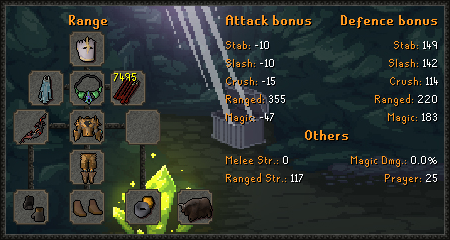
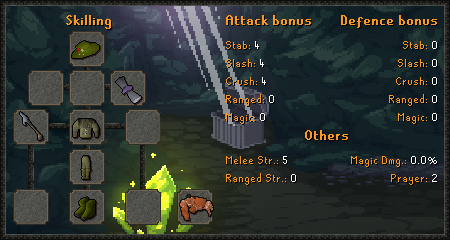
GitBook: [#229] BiS Outfits for Skilling Pages

diff --git a/skills/hunter.md b/skills/hunter.md
@@ -3,13 +3,17 @@
 ### Custom Content and Boosts
 
 * Elder Birdhouses - can be set at level 99 Hunter, giving random seeds and a chance at [Grandmaster Clues](https://bso-wiki.oldschool.gg/custom-items/grandmaster-clues).
+* [Scroll of the Hunt](dungeoneering-training/dg-rewards.md#buyable-boosts-utility) - +4 Birdhouses
 * Sand Geckos - can be hunted at 120 hunter, requiring simple kibble to catch them. They reward various mystery boxes, and can be boosted using [Sandy](https://bso-wiki.oldschool.gg/custom-items/pets) and the Master Hunter Cape (500m XP)
-* Eastern Ferret - can be hunted at 96 hunter, requiring delicious kibble to catch them. Chance at [Zippy](../custom-items/pets.md#miscellaneous-pets) pet
+* Eastern Ferret - can be hunted at 96 hunter, requiring delicious kibble to catch. Chance at [Zippy](../custom-items/pets.md#miscellaneous-pets) pet
 * [Sandy](../custom-items/pets.md#miscellaneous-pets) - 3x hunter loot (2x sand gecko loot w/ Hunter Master Cape)
+* Hunter Master Cape - 2x Hunter speed, +4 birdhouses, 2x loot from Sand Geckos with Sandy equipped, 2x implings
 
 ### Optimal Gear Setup
 
-Lorem Ipsum
+Hunter master cape, Sandy
+
+Wildy setup - Full royal dhide (cost effective)
 
 ### Methods
 

diff --git a/skills/farming.md b/skills/farming.md
@@ -14,18 +14,12 @@
 * [Master Farming Outfit](../custom-items/equippables.md#master-farmer-outfit) - Gives +3 patches of all types. Obtained via crafting with 110 Crafting using Ent hides dropped from [Treebeard](../bosses/demi-bosses/treebeard.md). Works from bank
 * [Scroll of Life](dungeoneering-training/dg-rewards.md#buyable-boosts-utility) - 15% less seeds used when farming
 * [Farming Master Cape](../custom-items/equippables.md#master-capes) - Save 15% seeds. (50% if you have the cape and scroll of life); 1/10 chance per seed of a mystery box.
-* Farming Skill Cape - +5% Crop yield.
-* Magic Secateurs - +10% crop yield.
-* Full Graceful - 10% speed boost
-* Ardougne Elite Diary - 4% speed boost
-* Ring of Endurance - 10% speed boost must be equipped
-* Farmers Outfit - 2.5% bonus exp. Does not need to be equipped.
 * 3000 QP - Unlocks additional Athelas and Mysterious Tree patches
 * [Plopper](../custom-items/pets.md#miscellaneous-pets) - 4x harvest and crops can't die
 
 ### Optimal Gear Setup
 
-Lorem Ipsum
+![](<../.gitbook/assets/image (15).png>)
 
 ### Methods
 

diff --git a/custom-items/equippables.md b/custom-items/equippables.md
@@ -60,14 +60,11 @@ These dwarven gear are unlike the previous in that they are not smithable from D
 
 ### Abyssal Equipment
 
-Abyssal equipment can be obtained by killing [Malygos](../bosses/demi-bosses/malygos.md).&#x20;
-
-* Abyssal Cape - Provides an aura which reduces food consumption by 50%
-* Abyssal Thread - Combine with Giant Pouch to create Abyssal Pouch
+Abyssal Cape - Provides an aura which reduces food consumption by 50%. Obtained from [Malygos](../bosses/demi-bosses/malygos.md)
 
 ### Nex Equipment
 
-The following items can be obtained by killing Nex (see [Nex](../bosses/nex.md)). These items all have very high bonuses in their respective style, Pernix - range, Torva - melee, and Virtus - magic.&#x20;
+The following items are obtained from [Nex](../bosses/nex.md). These items all have very high bonuses in their respective style, Pernix - range, Torva - melee, and Virtus - magic.&#x20;
 
 * **Pernix**: Cowl, Body, Chaps, Gloves, Boots, Zaryte Bow
 * **Torva**: Full Helm, Platebody, Platelegs, Gloves, Boots

diff --git a/skills/prayer.md b/skills/prayer.md
@@ -5,11 +5,12 @@
 * [Lil' Lamb](../custom-items/pets.md#miscellaneous-pets) - 1x-3x boost from offering bones
 * Abyssal Dragon Bones - Bis bones obtained from Malygos
 * Royal Dragon Bones - Bis bones obtained from QBD
-* Gorajan Bonecrusher - Passively crushes bones obtained from /k trips. Create by combining the [Gorajan Bonecrusher (u)](dungeoneering-training/#starting-out) with 2 gorajan shards
+* Gorajan Bonecrusher - Passively crushes bones obtained from /k trips. Create by combining the [Gorajan Bonecrusher (u)](dungeoneering-training/#starting-out) with 3 gorajan shards
+* Prayer Master Cape - 40% Less Prayer Potions consumed while using Dwarven Blessing
 
 ### Optimal Gear Setup
 
-Lorem Ipsum
+Lil Lamb, Prayer master cape
 
 ### Methods
 

diff --git a/skills/runecraft.md b/skills/runecraft.md
@@ -11,12 +11,14 @@ description: Runecraft meta
 * Elder pouch - Upgrade the Abyssal pouch to hold much more essence. Requires [elder thread](../minigames/ourania-delivery-service-ods.md#ods-shop) and level 105 RC to use. `=create elder pouch` Ensure you create a new Abyssal pouch after creating this.
 * [Obis](../custom-items/pets.md#miscellaneous-pets) - 2x boost but costs 3x essence
 * [Master runecrafter outfit](../minigames/ourania-delivery-service-ods.md#ods-shop) - 10% bonus to RC XP
-* lvl 120 Runecraft - 2x rune production
+* Lvl 120 Runecraft - 2x rune production
 * Runecraft master cape - 2x speed
 
 ### Optimal Gear Setup
 
-Lorem Ipsum
+Full Graceful in a setup
+
+Master runecrafter outfit, Runecraft master cape, obis
 
 ### Methods
 

diff --git a/skills/fishing.md b/skills/fishing.md
@@ -3,13 +3,15 @@
 ### Custom Content and Boosts
 
 * [Shelldon](https://bso-wiki.oldschool.gg/custom-items/pets) - 2x Fishing Speed
+* [Klik](../custom-items/pets.md#miscellaneous-pets) - Cooks caught fish when equipped
 * Raw Rocktails - Caught at 120 fishing
 * Fishing Content - =fishingcontest, daily 1 minute trip that gives \~200k xp
-* Crystal FIshing Rod - Used in =fishingcontest, created with crystal tool seed and a fishing rod
+* Crystal Fishing Rod - Used in =fishingcontest, created with crystal tool seed and a fishing rod
+* Tackleboxes - Increases length of fishing trip according to tier of tacklebox, obtained from =fishingcontest
 
 ### Optimal Gear Setup
 
-Lorem Ipsum
+![](<../.gitbook/assets/image (11).png>)
 
 ### Methods
 

diff --git a/skills/smithing.md b/skills/smithing.md
@@ -12,10 +12,11 @@ n.b. _There is a 35% chance to fail smelting the bar. The ore is used in the att
 * [Dwarven Greathammer](../custom-items/equippables.md#dwarven-tools) - 2x boost to =smith (does not stack with takon)
 * [Dwarven Gauntlets](../custom-items/equippables.md#dwarven-tools) - 2x boost to /smelt and =bf (does not stack with goldsmith gauntlets at the blast furnance, does stack when using /smelt)
 * Smithing Master Cape - 2x boost to =bf, halves failure rate when smelting ore
+* [Scroll of Efficiency](dungeoneering-training/dg-rewards.md#buyable-boosts-utility) - Saves 15% of the bars used
 
 ### Optimal Gear Setup
 
-Lorem Ipsum
+![](<../.gitbook/assets/image (14).png>)
 
 ### Methods
 

diff --git a/skills/construction.md b/skills/construction.md
@@ -6,10 +6,11 @@
 * Elder Table - Made at 105 Construction with Elder Planks
 * Ancient Rejuvenation Pool - Built at 105 construction using 500 brews, 150 restores, 100 stams, 200 prayer pots, 30 elder planks, and 20 marble blocks. It must be built on top of an ornate rejuvenation pool, and it provides a boost to QBD, Corp, and Malygos.
 * [Scroll of proficiency](dungeoneering-training/dg-rewards.md#buyable-boosts-utility) - 15% of planks saved in construction
+* Construction Master Cape - Hatches Nursery Eggs at 2x Speed
 
 ### Optimal Gear Setup
 
-Lorem Ipsum
+Plank sack, Carpenter's helmet, Carpenter's shirt, Carpenter's trousers, Carpenter's boots, Construction master cape
 
 ### Methods
 

diff --git a/skills/agility.md b/skills/agility.md
@@ -8,10 +8,11 @@
 * Daemonheim agility course - Chance to find dungeoneering dyes and gorajan shards (2.5x rate of the dungeoneering skill)
 * Sepulchre Floor 6 and 7 - Unlocked at levels 105 and 115 respectively.&#x20;
 * [Monkey Rumble](../minigames/mad-marimbos-monkey-rumble/#rewards) - While doing this minigame you can receive agility experience at about 1/4th of the strength xp you receive
+* Agility Master Cape - Acts as a full set of graceful
 
 ### Optimal Gear Setup
 
-lorem ipsum
+Cob, Agility master cape
 
 ### Methods
 

diff --git a/skills/cooking.md b/skills/cooking.md
@@ -6,6 +6,7 @@
 * [Dwarven Gauntlets](../custom-items/equippables.md#dwarven-tools) - 3x Cooking Speed (does not work with =kibble; does not stack with Remy)
 * Cooked Rocktail - Cookable at lvl 120 cooking
 * Kibble - Used as bait when training Hunter
+* Cooking Master Cape - 5x cooking speed
 
 ### Kibble
 
@@ -26,7 +27,7 @@ Create kibble with `=kibble <quantity> <tier>`using all of the resources listed.
 
 ### Optimal Gear Setup
 
-Lorem Ipsum
+Cooking master cape, Dwarven gauntlets, Remy
 
 ### Methods
 

diff --git a/skills/woodcutting.md b/skills/woodcutting.md
@@ -2,13 +2,13 @@
 
 ### **Custom Content and Boosts**
 
-* [Dwarven Greataxe](../custom-items/equippables.md#dwarven-tools) - 2x speed&#x20;
-* Woodcutting Master Cape - 2x loot
+* [Dwarven Greataxe](../custom-items/equippables.md#dwarven-tools) - 2x speed
 * Elder Logs - logs obtained from Elder trees at lvl 105 wc
+* Woodcutting Master Cape - 2x Woodcutting loot
 
 ### Optimal Gear Setup
 
-Lorem Ipsum
+Full lumberjack outfit in skilling, Dwarven greataxe, Woodcutting master cape
 
 ### Methods
 

diff --git a/skills/slayer.md b/skills/slayer.md
@@ -11,6 +11,7 @@ description: Slayer on BSO shares many things with OSB, with a handful of key di
 * Size Matters - 2x task length
 * Pore Decisions - Unlocks tasks within the [Polypore Dungeon](https://bso-wiki.oldschool.gg/custom-items/custom-monsters#polypore-dungeon)
 * Block and Roll (5000 Slayer Points) - +3 blocks
+* Slayer Master Cape - Doubles the amount of superiors you kill on a task
 
 n.b. for boosts please see the [combat skills](combat-skills.md) section
 
